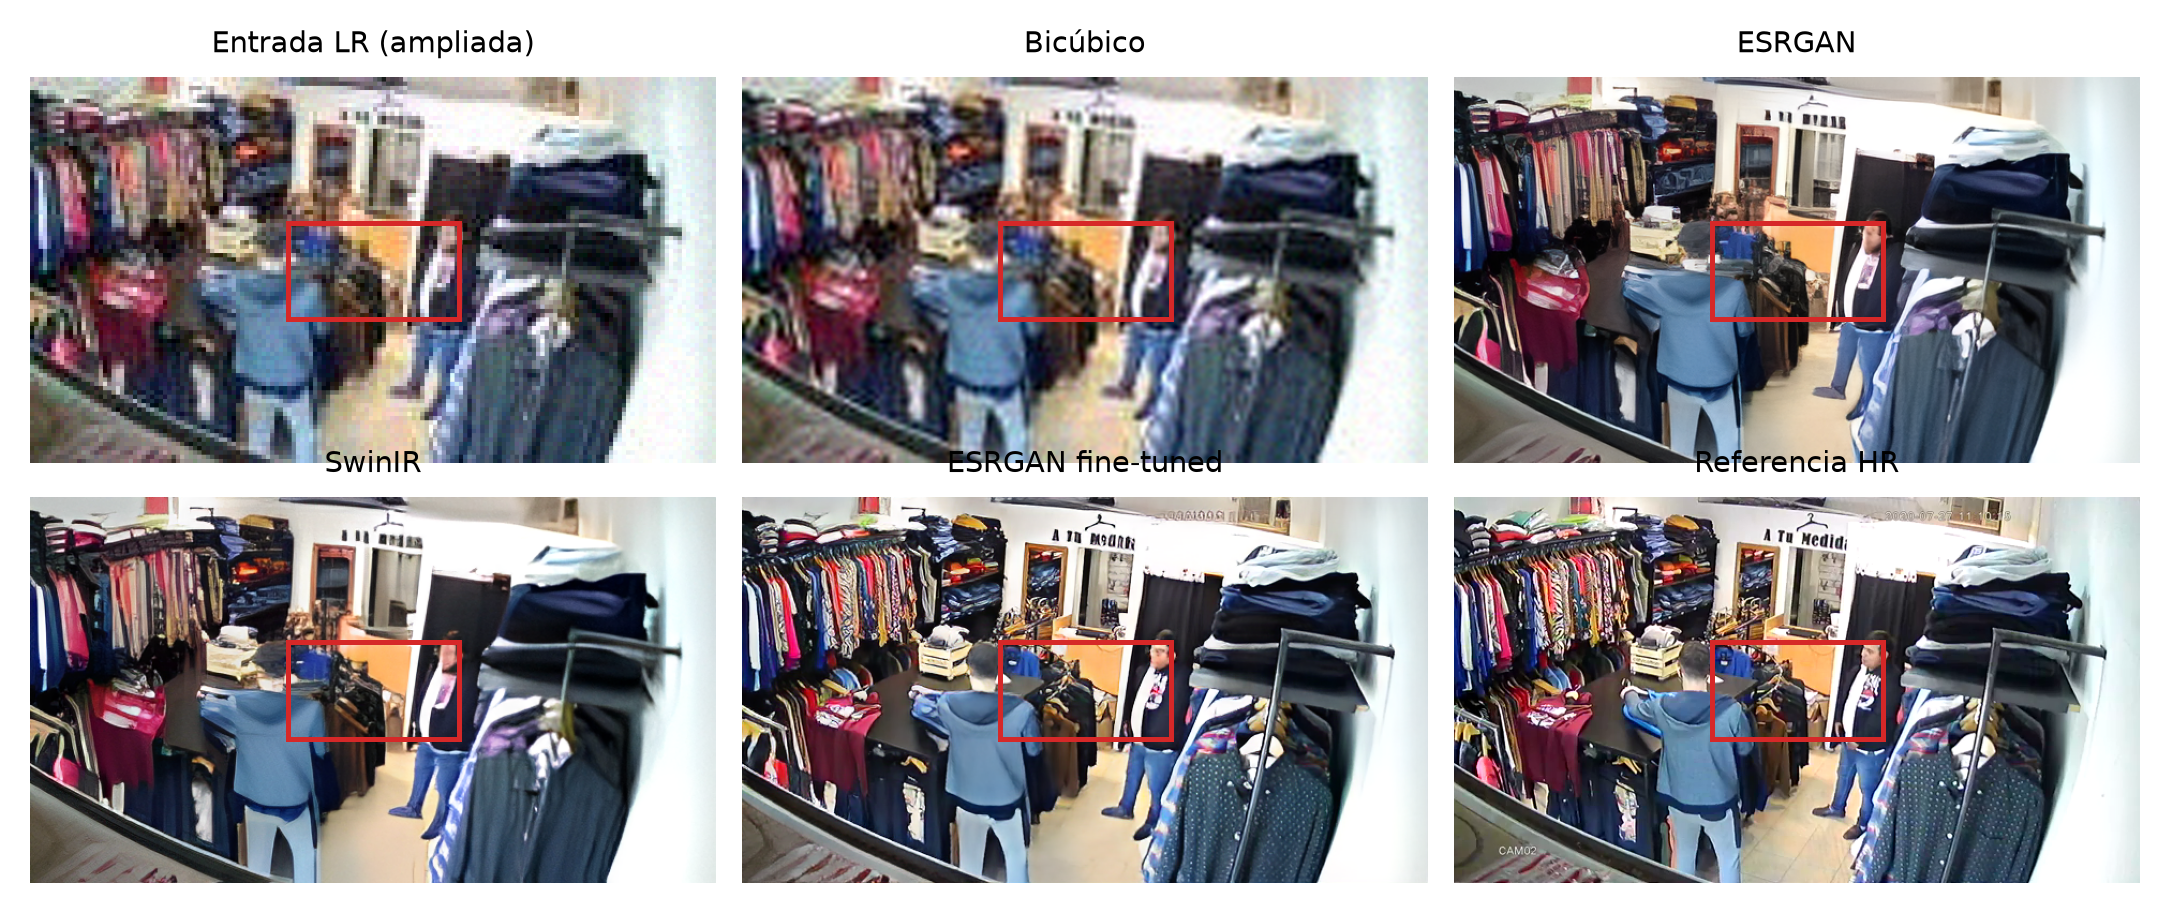
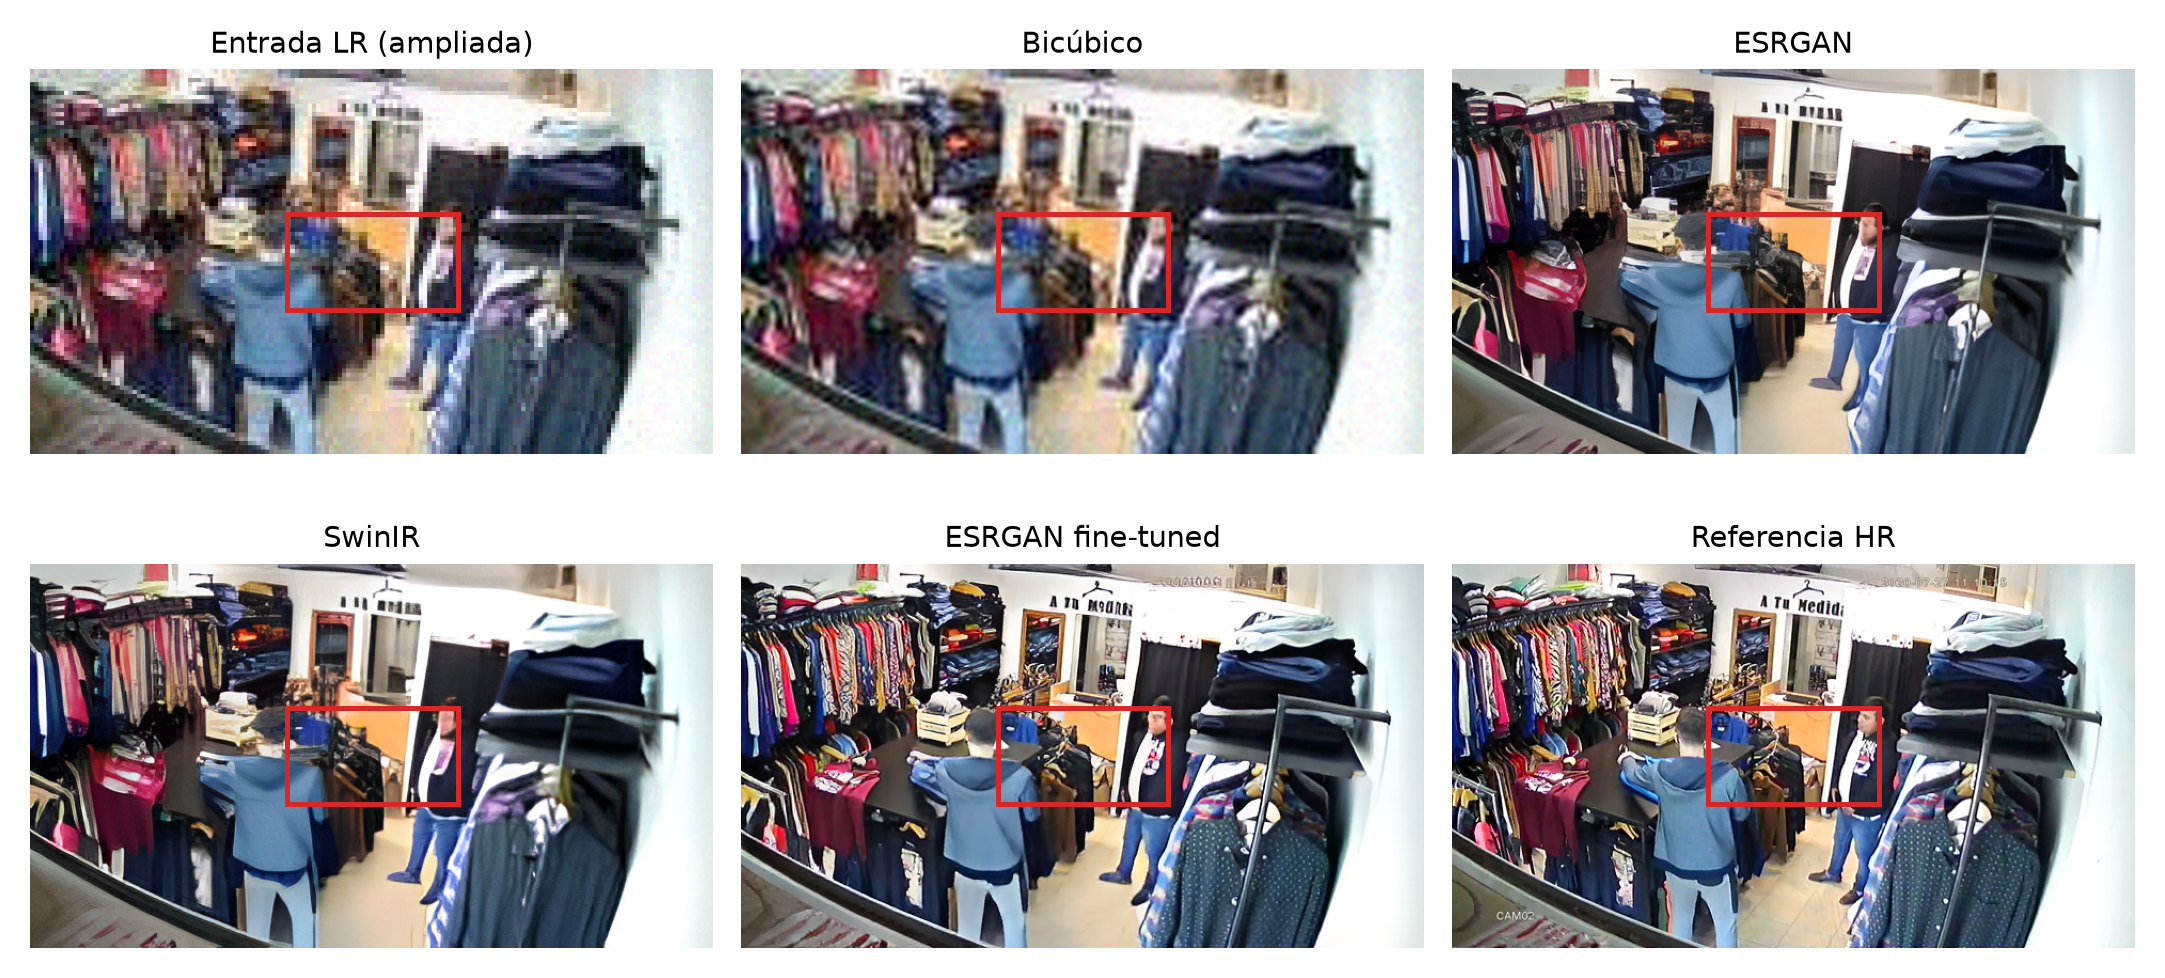
Corregir el espaciado de las figuras de comparacion

diff --git a/pipeline/step8_generate_figures.py b/pipeline/step8_generate_figures.py
@@ -94,7 +94,7 @@ def comparison_strip(name: str, active, out_path: Path):
     cols = (n + 1) // 2
     ratio = hr.shape[0] / hr.shape[1]
     fig, axes = plt.subplots(2, cols,
-                             figsize=(FIG_DOUBLE_W, FIG_DOUBLE_W / cols * ratio * 2.15))
+                             figsize=(FIG_DOUBLE_W, FIG_DOUBLE_W / cols * ratio * 2.35))
     axes = axes.ravel()
     for ax in axes[n:]:
         ax.axis('off')
@@ -102,9 +102,10 @@ def comparison_strip(name: str, active, out_path: Path):
         ax.imshow(img)
         ax.add_patch(Rectangle((x0, y0), cw, ch, fill=False,
                                edgecolor=ROI_COLOR, linewidth=1.2))
-        ax.set_title(lbl, fontsize=7)
+        ax.set_title(lbl, fontsize=7, pad=4)
         ax.axis('off')
-    fig.tight_layout(pad=0.3)
+    fig.subplots_adjust(left=0.01, right=0.99, top=0.94, bottom=0.01,
+                        wspace=0.04, hspace=0.28)
     fig.savefig(out_path, dpi=FIG_DPI, bbox_inches='tight')
     plt.close(fig)
     print(f'  Saved: {out_path.name}')
@@ -122,7 +123,7 @@ def zoom_strip(name: str, active, out_path: Path):
     cols = (n + 1) // 2
     ratio = ch / cw
     fig, axes = plt.subplots(2, cols,
-                             figsize=(FIG_DOUBLE_W, FIG_DOUBLE_W / cols * ratio * 2.3))
+                             figsize=(FIG_DOUBLE_W, FIG_DOUBLE_W / cols * ratio * 2.5))
     axes = axes.ravel()
     for ax in axes[n:]:
         ax.axis('off')
@@ -131,14 +132,15 @@ def zoom_strip(name: str, active, out_path: Path):
         yy, xx = min(y0, max(ih - ch, 0)), min(x0, max(iw - cw, 0))
         ax.imshow(img[yy:yy + ch, xx:xx + cw])
         if lbl == HIGHLIGHT_LABEL:
-            ax.set_title(lbl, fontsize=7, color=ROI_COLOR, fontweight='bold')
+            ax.set_title(lbl, fontsize=7, color=ROI_COLOR, fontweight='bold', pad=4)
             ax.add_patch(Rectangle((0, 0), 1, 1, transform=ax.transAxes,
                                    fill=False, edgecolor=ROI_COLOR,
                                    linewidth=2, clip_on=False))
         else:
-            ax.set_title(lbl, fontsize=7)
+            ax.set_title(lbl, fontsize=7, pad=4)
         ax.axis('off')
-    fig.tight_layout(pad=0.3)
+    fig.subplots_adjust(left=0.01, right=0.99, top=0.94, bottom=0.01,
+                        wspace=0.04, hspace=0.30)
     fig.savefig(out_path, dpi=FIG_DPI, bbox_inches='tight')
     plt.close(fig)
     print(f'  Saved: {out_path.name}')
